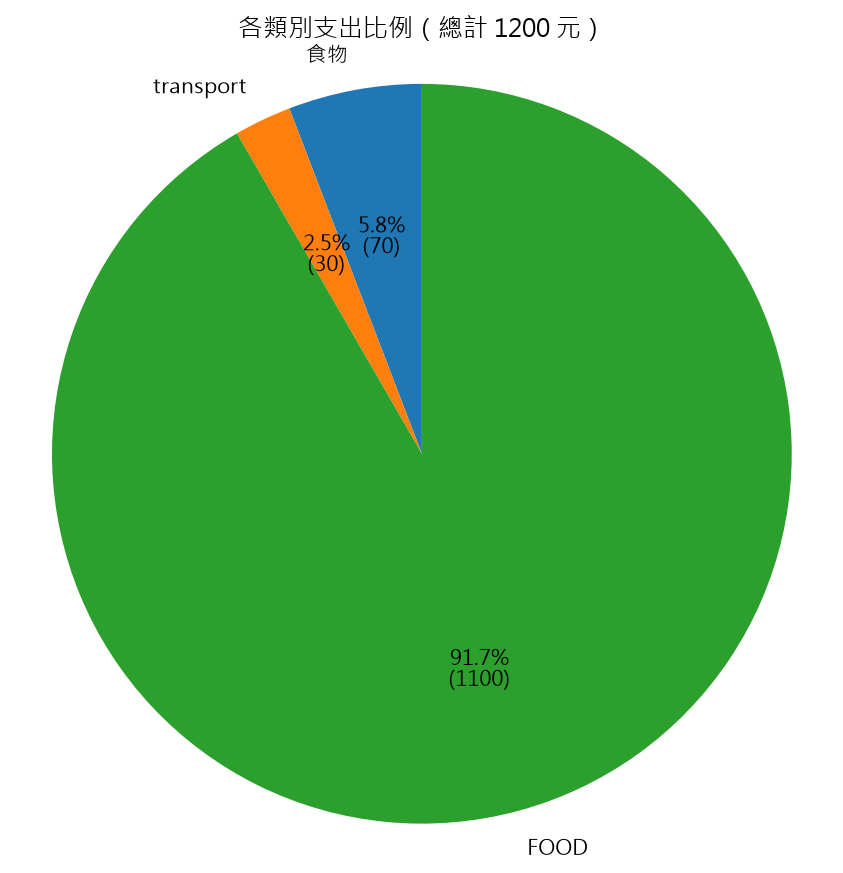
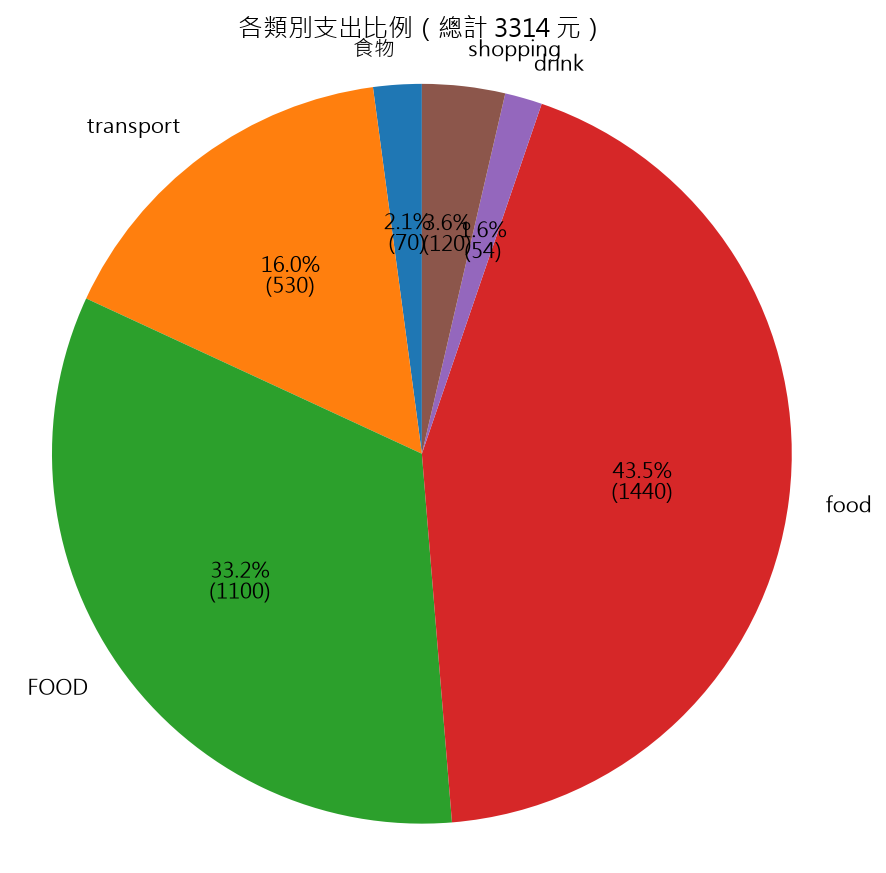
Add trend chart docs and update sample charts

diff --git a/README.md b/README.md
@@ -14,6 +14,9 @@
   - 自動存成 `pie_chart_sample.png`
   - 列出所有支出（含編號與總計）
   - 依編號刪除支出，刪除前會再次確認
+  - **每月趨勢圖**：依月份加總支出畫成長條圖
+  - 每根長條標示金額，虛線為每月平均
+  - 自動存成 `trend_chart_sample.png`
 
 ## 環境需求
 - Python 3.10 以上
@@ -37,8 +40,15 @@ python pie_chart.py
 ```
 讀取 `expenses.csv` 畫出圓餅圖，並存成 `pie_chart_sample.png`。
 
+### 3. 產生每月趨勢圖
+```
+python trend_chart.py
+```
+讀取 `expenses.csv`，依月份畫出支出長條圖，並存成 `trend_chart_sample.png`。
+
 ## 範例圖表
 ![pie chart](pie_chart_sample.png)
+![trend chart](trend_chart_sample.png)
 
 ## 資料格式
 `expenses.csv` 的欄位：
@@ -57,6 +67,8 @@ expense-tracker/
 ├── pie_chart.py          # 視覺化模組（Member B）
 ├── expenses.csv          # 支出資料
 ├── pie_chart_sample.png  # 圓餅圖範例
+├── trend_chart.py        # 每月趨勢圖
+├── trend_chart_sample.png
 ├── requirements.txt      # 需要的套件
 └── README.md
 ```
@@ -77,6 +89,7 @@ expense-tracker/
 | `docs-readme` | A | README 使用說明與範例圖 |
 | `docs-improve` | A | requirements.txt、.gitignore、完整 README |
 | `feature-delete` | A | 列出與刪除支出 |
+| `feature-trend` | A | 每月支出趨勢圖 |
 
 ```
 git checkout main
